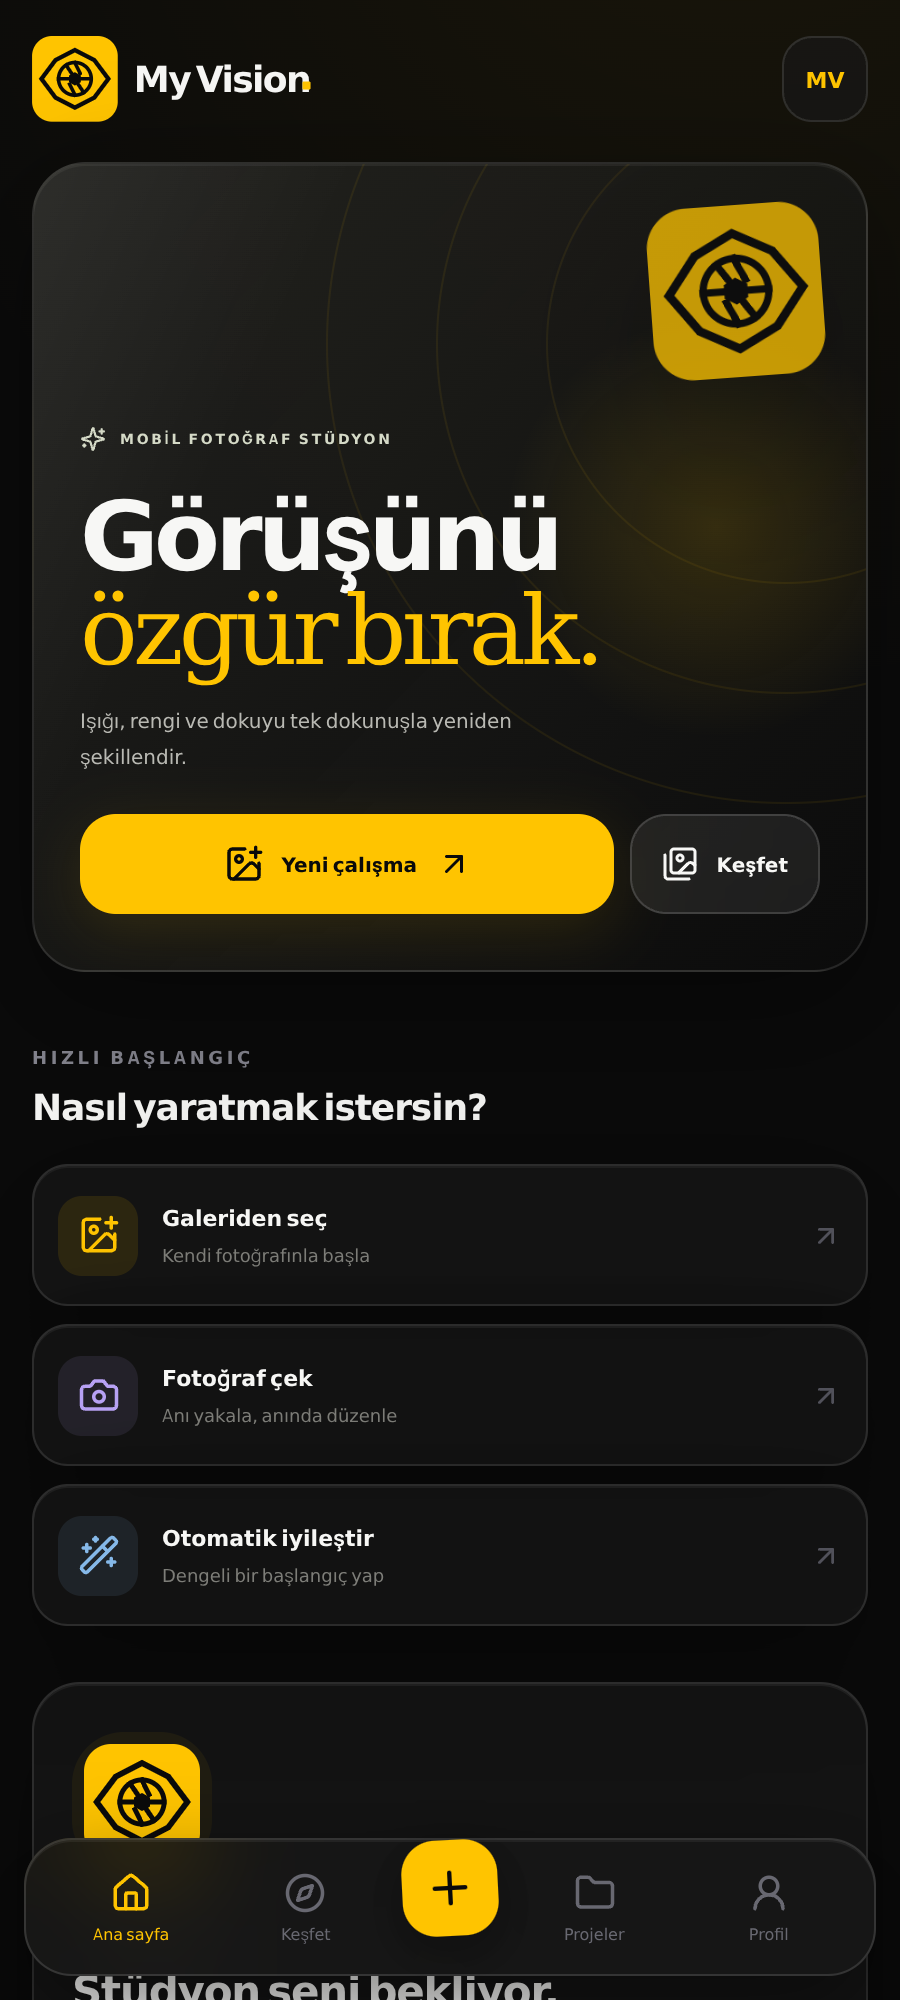
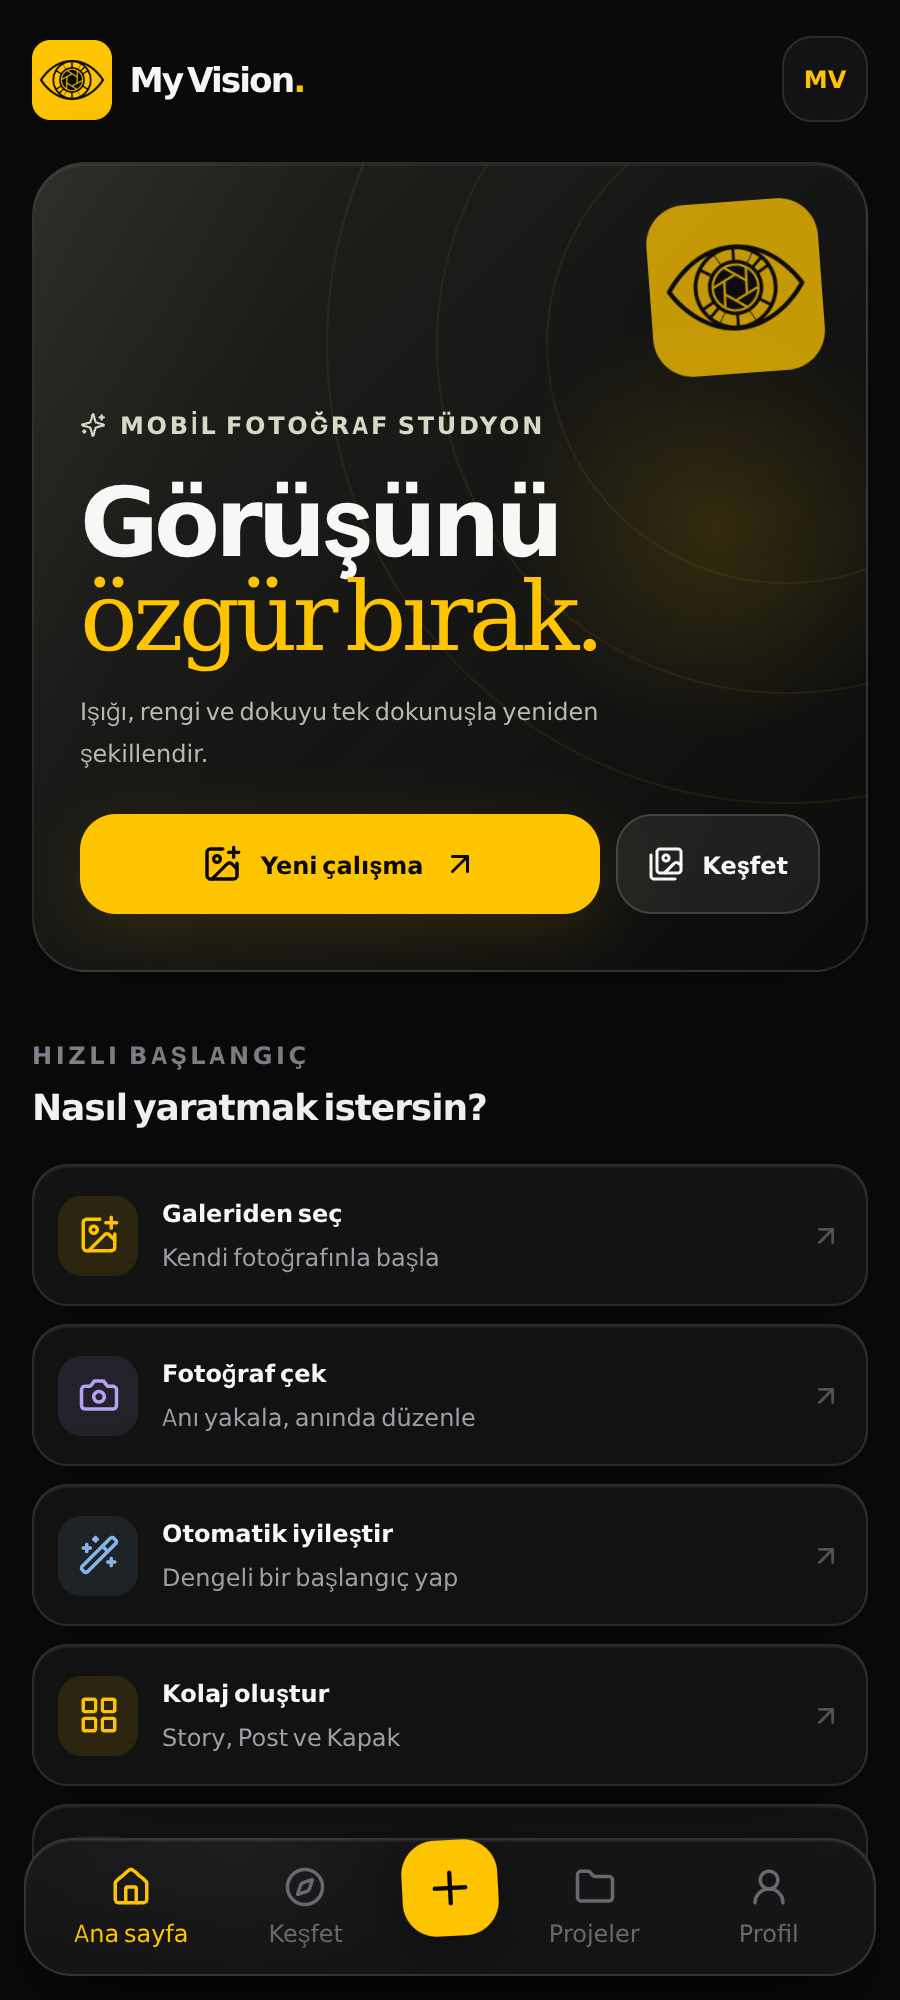
docs: record verified Android package and refresh store captures

diff --git a/docs/AUDIT.md b/docs/AUDIT.md
@@ -104,3 +104,13 @@
 - Regresyon: Worker aktif gelişmiş editör, Worker kapalı JPG, PNG alfa/straighten/histogram/%200 pinch, 1080×1920 kolaj, iki batch JPG, watermark ve arşiv metadata akışları yeniden geçti.
 - 37 test, ESLint, TypeScript/Vite build ve `git diff --check` başarılı.
 - Yayın blokları: aktif destek adresi ve public HTTPS yasal URL’ler sağlanmalı; RevenueCat/Play ürünleri ve lisans test hesabı yapılandırılmalı; imza secret’ları eklenmeli; gerçek Android cihazlarda satın alma ve fiziksel Poco/HyperOS QA yapılmalı.
+
+## Native Android paket sonucu
+
+- Son CI: https://github.com/eraslan19j/Agent/actions/runs/42463266756 — **success**; test/lint, web build, Capacitor sync, `assembleDebug`, target SDK 36 ve 16 KB zipalign adımları geçti.
+- İndirilebilir APK: https://github.com/eraslan19j/Agent/releases/download/my-vision-v1.3.0-debug/My-Vision-1.3.0-debug.apk
+- Release: https://github.com/eraslan19j/Agent/releases/tag/my-vision-v1.3.0-debug — APK boyutu **10.629.965 bayt**.
[1 lines of base64/hex data omitted]
+- Sandbox release-assets hostuna yönlendirilen indirmeyi tamamlayamadığı için APK yerel olarak ikinci kez indirilip kurulmadı; hash değeri CI çıktısıdır.
+- `store/screenshots/` üç görseli güncel 1.3.0 arayüzüyle 900×2000 olarak yenilendi. Bunlar gerçek uygulamanın kontrollü Chromium görüntüleridir; fiziksel Android ekran görüntüsü iddiası değildir.
+- İmzalı Play AAB workflow’u hazır fakat secret bulunmadığından çalıştırılmadı. Debug APK fiziksel Poco X7 Pro/HyperOS veya başka bir cihazda kurulup test edilmedi.
